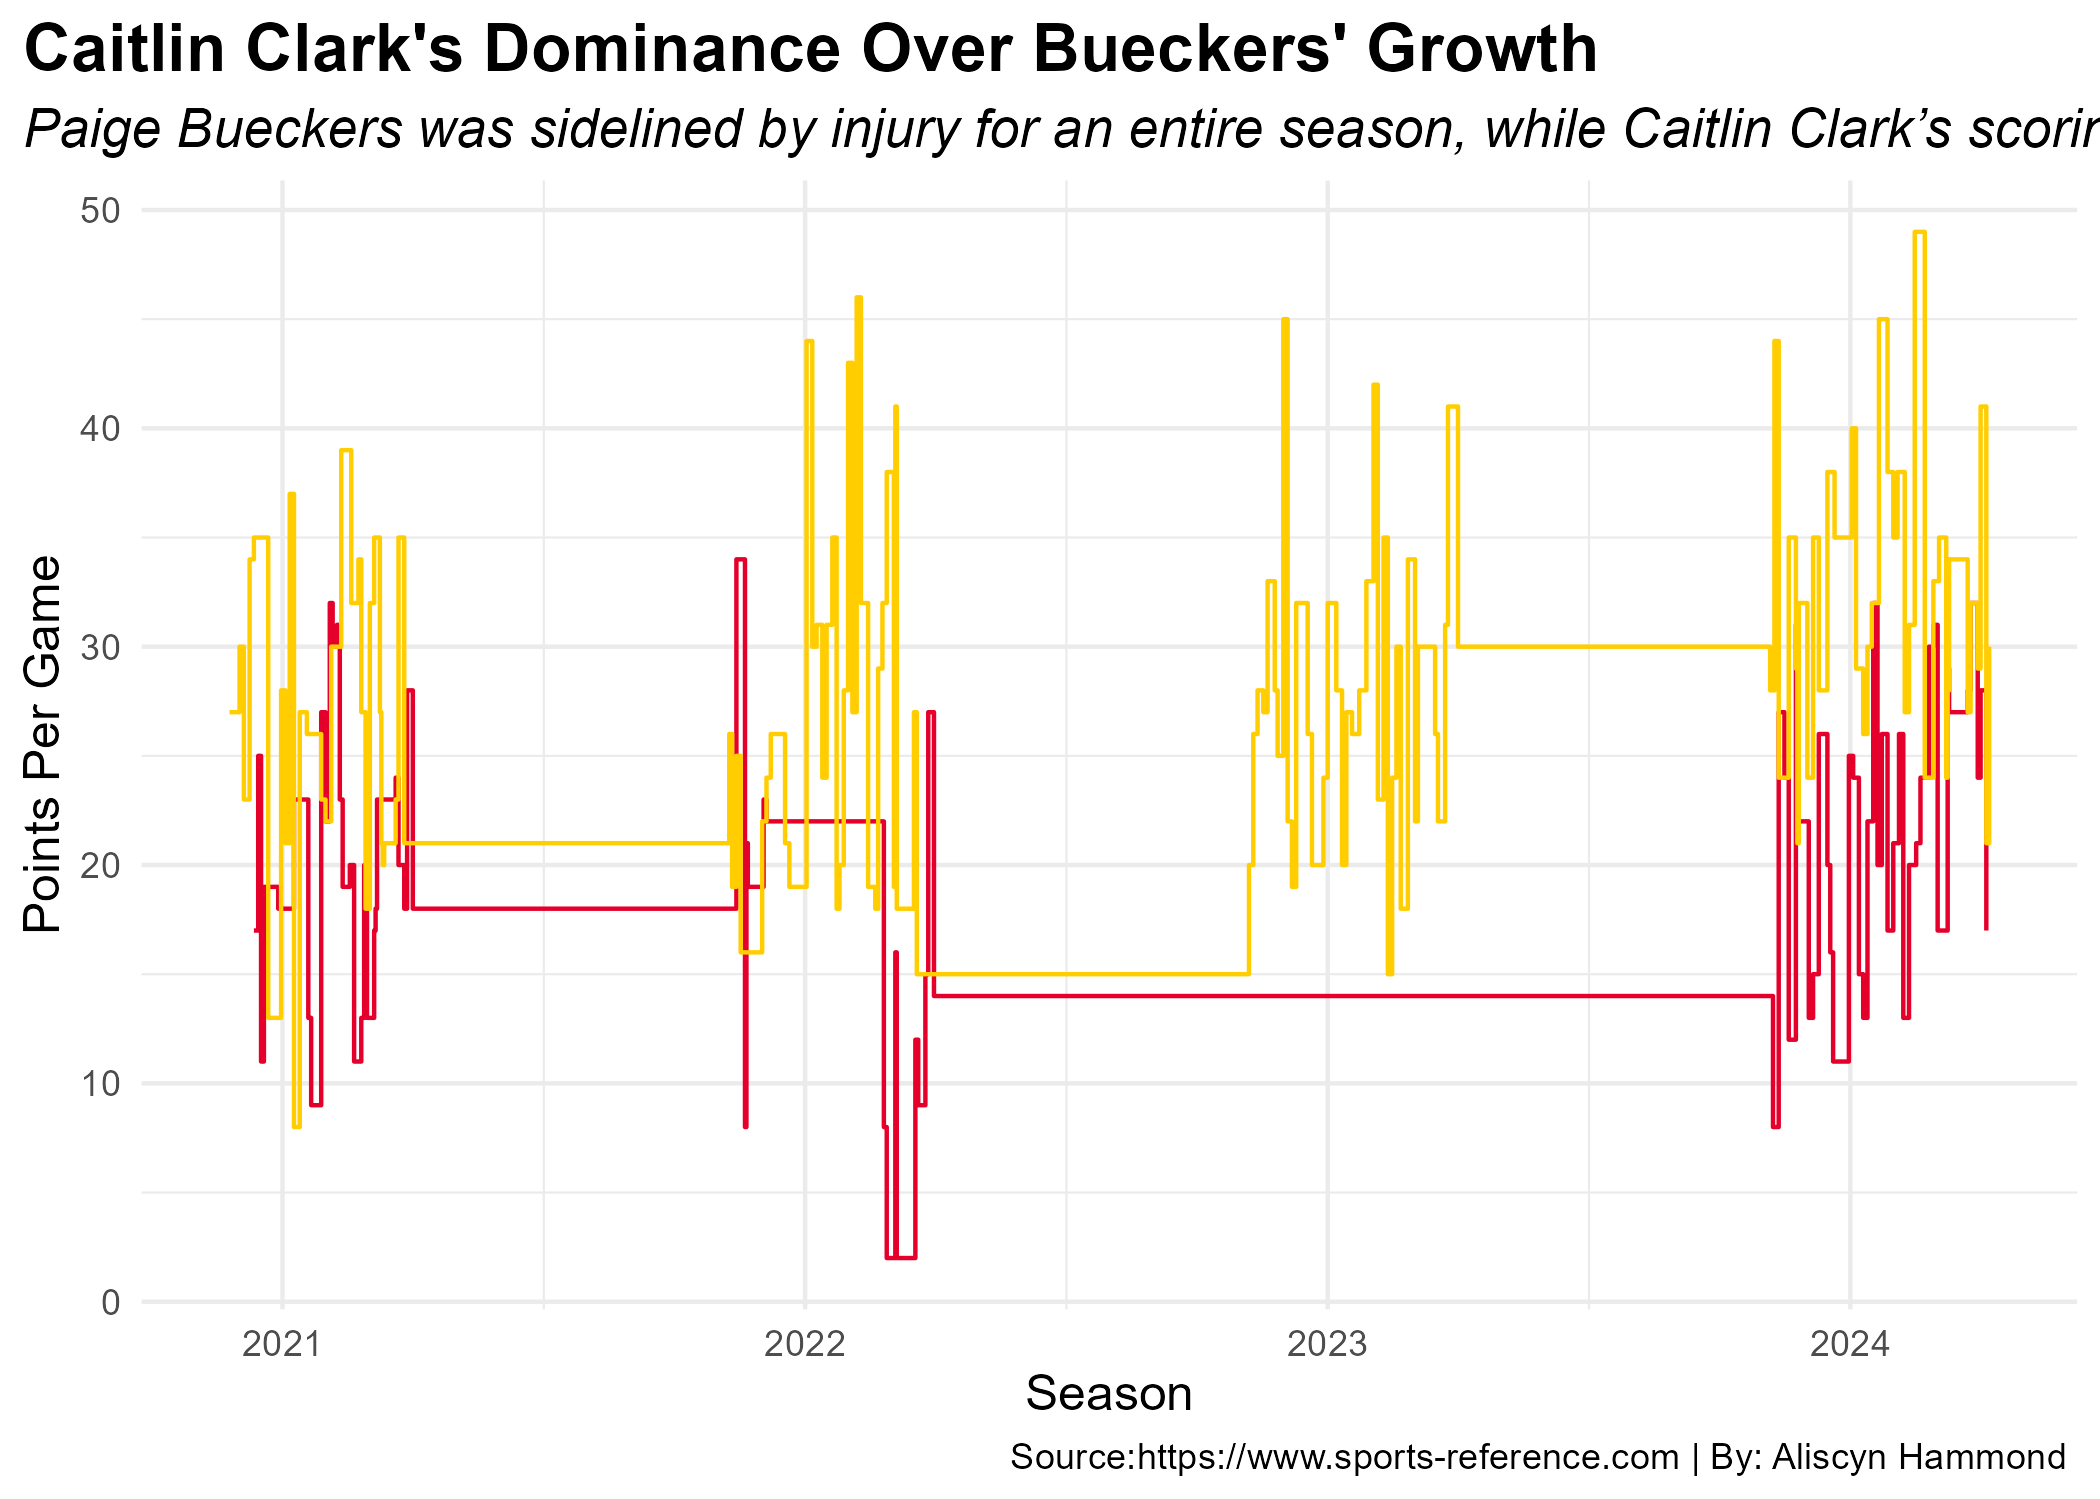
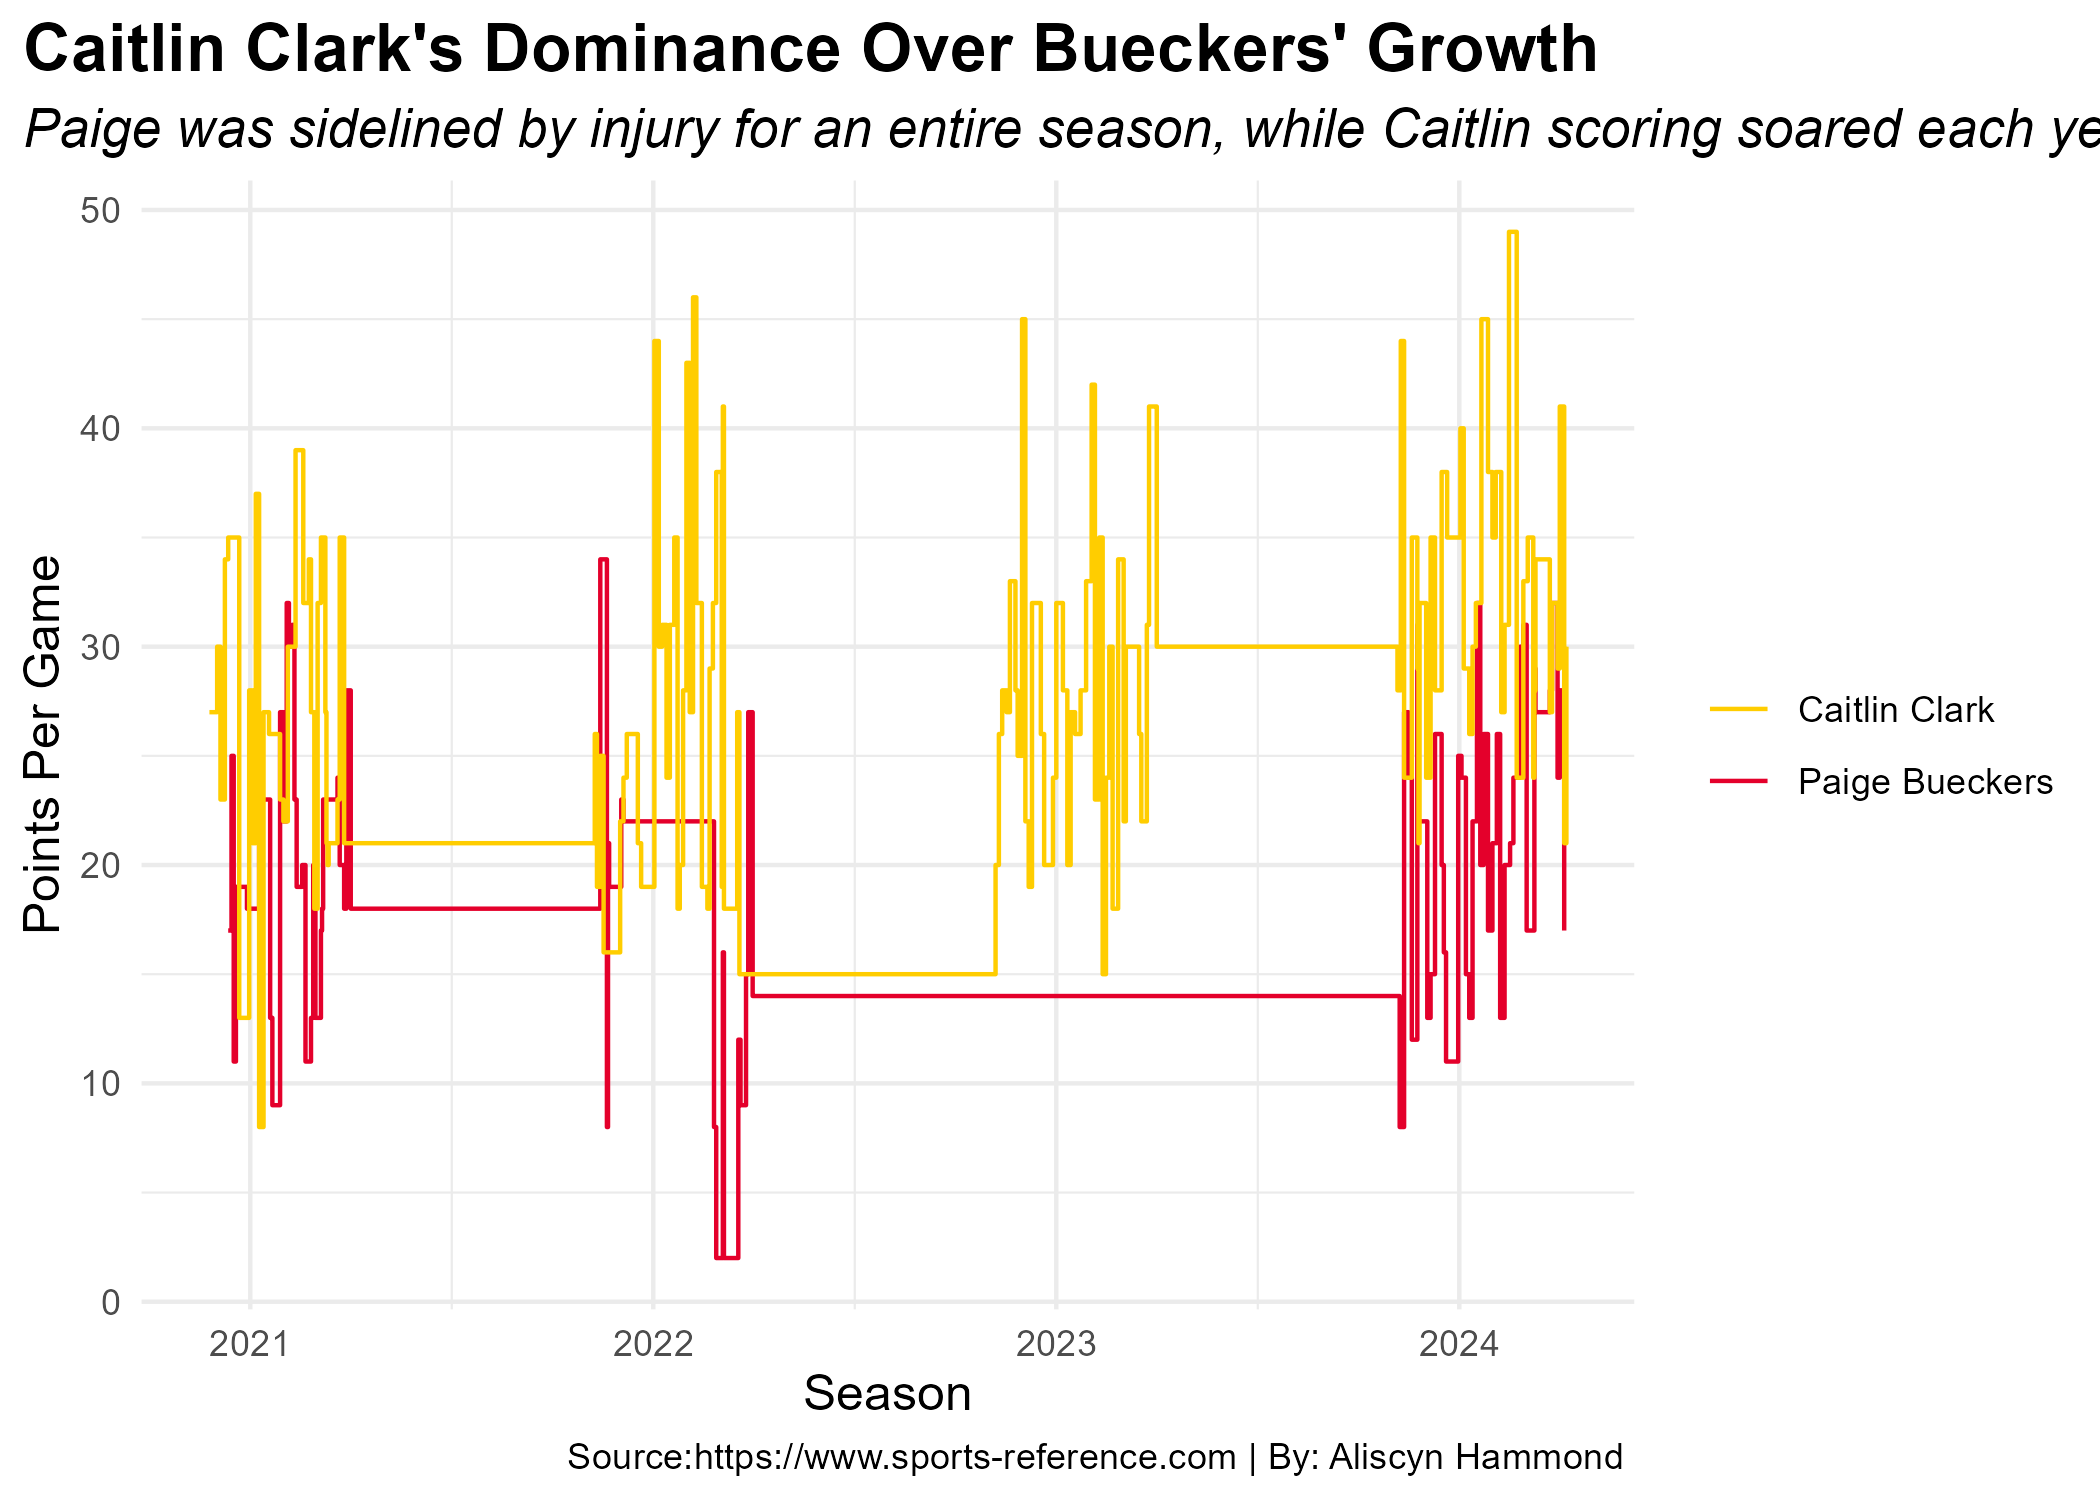
edited title and subtitle

diff --git a/posts/paige_caitlin_basketball/index.html b/posts/paige_caitlin_basketball/index.html
@@ -214,25 +214,30 @@ pre > code.sourceCode > span > a:first-child::before { text-decoration: underlin
 <span id="cb1-10"><a href="#cb1-10" aria-hidden="true" tabindex="-1"></a>cc<span class="sc">$</span>Date <span class="ot">&lt;-</span> <span class="fu">as.Date</span>(cc<span class="sc">$</span>Date, <span class="at">format =</span> <span class="st">"%Y-%m-%d"</span>)</span>
 <span id="cb1-11"><a href="#cb1-11" aria-hidden="true" tabindex="-1"></a></span>
 <span id="cb1-12"><a href="#cb1-12" aria-hidden="true" tabindex="-1"></a><span class="fu">ggplot</span>() <span class="sc">+</span></span>
-<span id="cb1-13"><a href="#cb1-13" aria-hidden="true" tabindex="-1"></a>  <span class="fu">geom_step</span>(<span class="at">data =</span> pb, <span class="fu">aes</span>(<span class="at">x =</span> Date, <span class="at">y =</span> PTS, <span class="at">group =</span> Player), <span class="at">color =</span> <span class="st">"#e4002b"</span>) <span class="sc">+</span> </span>
-<span id="cb1-14"><a href="#cb1-14" aria-hidden="true" tabindex="-1"></a>  <span class="fu">geom_step</span>(<span class="at">data =</span> cc, <span class="fu">aes</span>(<span class="at">x =</span> Date, <span class="at">y =</span> PTS, <span class="at">group =</span> Player), <span class="at">color =</span> <span class="st">"#FFCD00"</span>) <span class="sc">+</span> </span>
+<span id="cb1-13"><a href="#cb1-13" aria-hidden="true" tabindex="-1"></a>  <span class="fu">geom_step</span>(<span class="at">data =</span> pb, <span class="fu">aes</span>(<span class="at">x =</span> Date, <span class="at">y =</span> PTS, <span class="at">group =</span> Player, <span class="at">color =</span> <span class="st">"Paige Bueckers"</span>)) <span class="sc">+</span> </span>
+<span id="cb1-14"><a href="#cb1-14" aria-hidden="true" tabindex="-1"></a>  <span class="fu">geom_step</span>(<span class="at">data =</span> cc, <span class="fu">aes</span>(<span class="at">x =</span> Date, <span class="at">y =</span> PTS, <span class="at">group =</span> Player, <span class="at">color =</span> <span class="st">"Caitlin Clark"</span>)) <span class="sc">+</span> </span>
 <span id="cb1-15"><a href="#cb1-15" aria-hidden="true" tabindex="-1"></a>  <span class="fu">labs</span>(</span>
 <span id="cb1-16"><a href="#cb1-16" aria-hidden="true" tabindex="-1"></a>    <span class="at">x =</span> <span class="st">"Season"</span>,</span>
 <span id="cb1-17"><a href="#cb1-17" aria-hidden="true" tabindex="-1"></a>    <span class="at">y =</span> <span class="st">"Points Per Game"</span>,</span>
 <span id="cb1-18"><a href="#cb1-18" aria-hidden="true" tabindex="-1"></a>    <span class="at">title =</span> <span class="st">"Caitlin Clark's Dominance Over Bueckers' Growth"</span>,</span>
-<span id="cb1-19"><a href="#cb1-19" aria-hidden="true" tabindex="-1"></a>    <span class="at">subtitle =</span> <span class="st">"Paige Bueckers was sidelined by injury for an entire season, while Caitlin Clark’s scoring soared each year."</span>,</span>
+<span id="cb1-19"><a href="#cb1-19" aria-hidden="true" tabindex="-1"></a>    <span class="at">subtitle =</span> <span class="st">"Paige was sidelined by injury for an entire season, while Caitlin scoring soared each year."</span>,</span>
 <span id="cb1-20"><a href="#cb1-20" aria-hidden="true" tabindex="-1"></a>    <span class="at">caption =</span> <span class="st">"Source:https://www.sports-reference.com | By: Aliscyn Hammond "</span></span>
 <span id="cb1-21"><a href="#cb1-21" aria-hidden="true" tabindex="-1"></a>  ) <span class="sc">+</span></span>
 <span id="cb1-22"><a href="#cb1-22" aria-hidden="true" tabindex="-1"></a>  <span class="fu">scale_x_date</span>(<span class="at">date_breaks =</span> <span class="st">"1 year"</span>, <span class="at">date_labels =</span> <span class="st">"%Y"</span>) <span class="sc">+</span></span>
-<span id="cb1-23"><a href="#cb1-23" aria-hidden="true" tabindex="-1"></a>  <span class="fu">theme_minimal</span>()<span class="sc">+</span></span>
-<span id="cb1-24"><a href="#cb1-24" aria-hidden="true" tabindex="-1"></a>  <span class="fu">theme</span>(</span>
-<span id="cb1-25"><a href="#cb1-25" aria-hidden="true" tabindex="-1"></a>    <span class="at">plot.title =</span> <span class="fu">element_text</span>(<span class="at">size =</span> <span class="dv">16</span>, <span class="at">face =</span> <span class="st">"bold"</span>),</span>
-<span id="cb1-26"><a href="#cb1-26" aria-hidden="true" tabindex="-1"></a>    <span class="at">plot.subtitle =</span> <span class="fu">element_text</span>(<span class="at">size =</span> <span class="dv">13</span>, <span class="at">face =</span> <span class="st">"italic"</span>),</span>
-<span id="cb1-27"><a href="#cb1-27" aria-hidden="true" tabindex="-1"></a>    <span class="at">axis.title.x =</span> <span class="fu">element_text</span>(<span class="at">size =</span> <span class="dv">12</span>),</span>
-<span id="cb1-28"><a href="#cb1-28" aria-hidden="true" tabindex="-1"></a>    <span class="at">axis.title.y =</span> <span class="fu">element_text</span>(<span class="at">size =</span> <span class="dv">12</span>),</span>
-<span id="cb1-29"><a href="#cb1-29" aria-hidden="true" tabindex="-1"></a>     <span class="at">plot.title.position =</span> <span class="st">"plot"</span>,</span>
-<span id="cb1-30"><a href="#cb1-30" aria-hidden="true" tabindex="-1"></a>    <span class="at">plot.subtitle.position =</span> <span class="st">"plot"</span></span>
-<span id="cb1-31"><a href="#cb1-31" aria-hidden="true" tabindex="-1"></a>  )</span></code><button title="Copy to Clipboard" class="code-copy-button"><i class="bi"></i></button></pre></div>
+<span id="cb1-23"><a href="#cb1-23" aria-hidden="true" tabindex="-1"></a>  <span class="fu">scale_color_manual</span>(</span>
+<span id="cb1-24"><a href="#cb1-24" aria-hidden="true" tabindex="-1"></a>    <span class="at">values =</span> <span class="fu">c</span>(<span class="st">"Paige Bueckers"</span> <span class="ot">=</span> <span class="st">"#e4002b"</span>,</span>
+<span id="cb1-25"><a href="#cb1-25" aria-hidden="true" tabindex="-1"></a>               <span class="st">"Caitlin Clark"</span> <span class="ot">=</span> <span class="st">"#FFCD00"</span>)</span>
+<span id="cb1-26"><a href="#cb1-26" aria-hidden="true" tabindex="-1"></a>  ) <span class="sc">+</span></span>
+<span id="cb1-27"><a href="#cb1-27" aria-hidden="true" tabindex="-1"></a>  <span class="fu">theme_minimal</span>() <span class="sc">+</span></span>
+<span id="cb1-28"><a href="#cb1-28" aria-hidden="true" tabindex="-1"></a>  <span class="fu">theme</span>(</span>
+<span id="cb1-29"><a href="#cb1-29" aria-hidden="true" tabindex="-1"></a>    <span class="at">plot.title =</span> <span class="fu">element_text</span>(<span class="at">size =</span> <span class="dv">16</span>, <span class="at">face =</span> <span class="st">"bold"</span>),</span>
+<span id="cb1-30"><a href="#cb1-30" aria-hidden="true" tabindex="-1"></a>    <span class="at">plot.subtitle =</span> <span class="fu">element_text</span>(<span class="at">size =</span> <span class="dv">13</span>, <span class="at">face =</span> <span class="st">"italic"</span>),</span>
+<span id="cb1-31"><a href="#cb1-31" aria-hidden="true" tabindex="-1"></a>    <span class="at">axis.title.x =</span> <span class="fu">element_text</span>(<span class="at">size =</span> <span class="dv">12</span>),</span>
+<span id="cb1-32"><a href="#cb1-32" aria-hidden="true" tabindex="-1"></a>    <span class="at">axis.title.y =</span> <span class="fu">element_text</span>(<span class="at">size =</span> <span class="dv">12</span>),</span>
+<span id="cb1-33"><a href="#cb1-33" aria-hidden="true" tabindex="-1"></a>    <span class="at">plot.title.position =</span> <span class="st">"plot"</span>,</span>
+<span id="cb1-34"><a href="#cb1-34" aria-hidden="true" tabindex="-1"></a>    <span class="at">plot.subtitle.position =</span> <span class="st">"plot"</span>,</span>
+<span id="cb1-35"><a href="#cb1-35" aria-hidden="true" tabindex="-1"></a>    <span class="at">legend.title =</span> <span class="fu">element_blank</span>()</span>
+<span id="cb1-36"><a href="#cb1-36" aria-hidden="true" tabindex="-1"></a>  )</span></code><button title="Copy to Clipboard" class="code-copy-button"><i class="bi"></i></button></pre></div>
 </details>
 <div class="cell-output-display">
 <div>

diff --git a/index.html b/index.html
@@ -210,7 +210,7 @@ window.Quarto = {
 
 <div class="quarto-listing quarto-listing-container-default" id="listing-listing">
 <div class="list quarto-listing-default">
-<div class="quarto-post image-right" data-index="0" data-categories="YmFza2V0YmFsbCx3b21lbiBzcG9ydHMsY29sbGVnZSBzcG9ydHM=" data-listing-date-sort="1733724000000" data-listing-file-modified-sort="1733547029654" data-listing-date-modified-sort="NaN" data-listing-reading-time-sort="5" data-listing-word-count-sort="893">
+<div class="quarto-post image-right" data-index="0" data-categories="YmFza2V0YmFsbCx3b21lbiBzcG9ydHMsY29sbGVnZSBzcG9ydHM=" data-listing-date-sort="1733724000000" data-listing-file-modified-sort="1733547261543" data-listing-date-modified-sort="NaN" data-listing-reading-time-sort="5" data-listing-word-count-sort="931">
 <div class="thumbnail">
 <p><a href="./posts/paige_caitlin_basketball/index.html" class="no-external"></a></p><a href="./posts/paige_caitlin_basketball/index.html" class="no-external">
 <p><img loading="lazy" src="./posts/paige_caitlin_basketball/image.png" class="thumbnail-image"></p>
